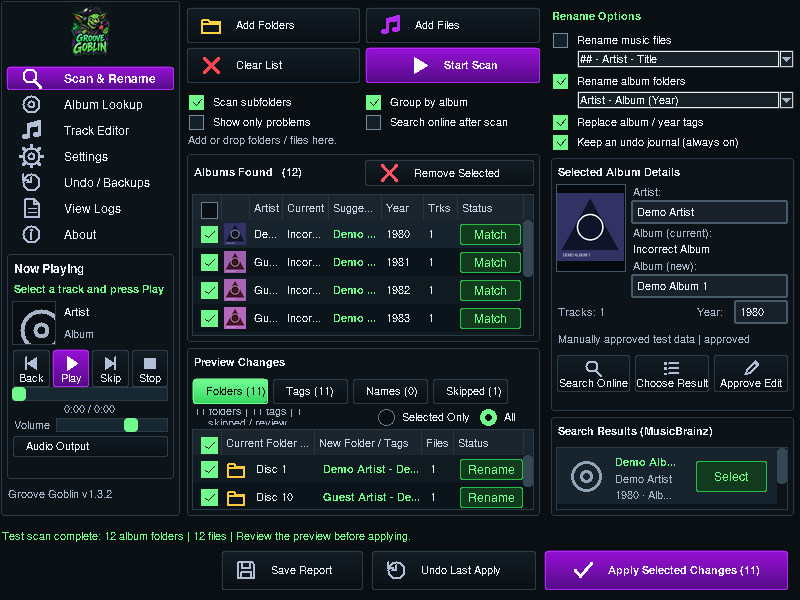
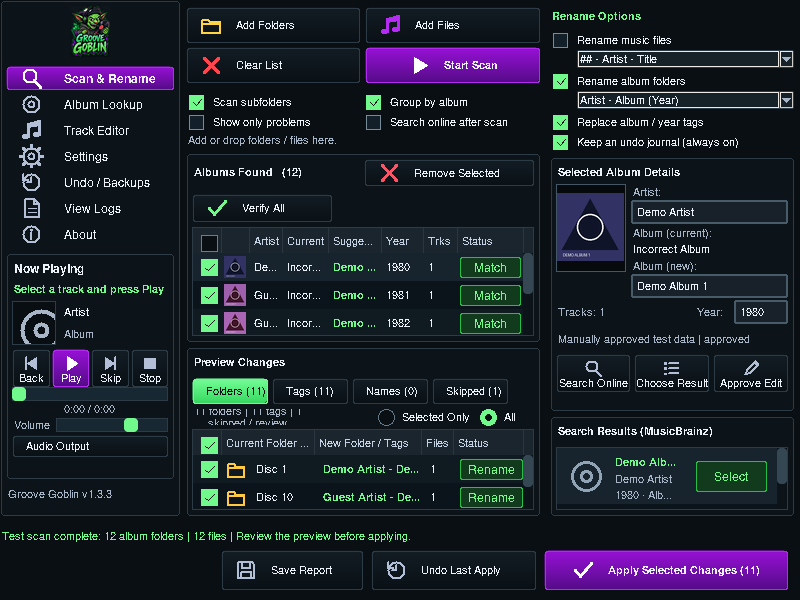
Add Verify All choices and a dedicated Album Lookup page

Changed region(s): [[0.25, 0.33, 0.5, 0.57], [0.5312, 0.33, 0.6875, 0.57], [0.3125, 0.33, 0.5, 0.36]]

diff --git a/groove_album_lookup.py b/groove_album_lookup.py
@@ -1,0 +1,119 @@
+"""Dedicated MusicBrainz browsing and matching page; searches never write music."""
+import tkinter as tk
+from tkinter import ttk, messagebox
+from types import SimpleNamespace
+from groove_widgets import BG, PANEL, FG, MUTED, GREEN, Button, Panel, Table
+
+
+class AlbumLookup(tk.Frame):
+    def __init__(self,app):
+        super().__init__(app.content,bg=BG)
+        self.app=app;self.uid=None;self.hits=[];self.ids=[None];self.searching=False
+        self.artist=tk.StringVar();self.title=tk.StringVar();self.info=tk.StringVar(value='Search by artist and album. Select a loaded album to use a result.')
+        self.columnconfigure(0,weight=1);self.rowconfigure(2,weight=1)
+        tk.Label(self,text='Album Lookup',bg=BG,fg=GREEN,font=(app.ui_font,14,'bold'),anchor='w').grid(row=0,column=0,sticky='ew',pady=(0,6))
+        self.search_panel=Panel(self,height=182,padding=8);self.search_panel.grid(row=1,column=0,sticky='ew',pady=(0,8))
+        form=self.search_panel.body;form.columnconfigure(1,weight=1)
+        tk.Label(form,text='Loaded album',bg=PANEL,fg=MUTED,font=(app.ui_font,9)).grid(row=0,column=0,sticky='w',padx=(0,8),pady=3)
+        self.target=ttk.Combobox(form,state='readonly',width=25);self.target.grid(row=0,column=1,sticky='ew',pady=3)
+        self.target.bind('<<ComboboxSelected>>',lambda event:self.select_target(self.ids[self.target.current()]))
+        self.entries=[]
+        for row,(label,var) in enumerate([('Artist',self.artist),('Album',self.title)],1):
+            tk.Label(form,text=label,bg=PANEL,fg=MUTED,font=(app.ui_font,9)).grid(row=row,column=0,sticky='w',pady=3)
+            entry=ttk.Entry(form,textvariable=var,width=25);entry.grid(row=row,column=1,sticky='ew',pady=3)
+            entry.bind('<Return>',lambda event:self.search());self.entries.append(entry)
+        search_actions=tk.Frame(form,bg=PANEL);search_actions.grid(row=3,column=1,sticky='w',pady=(4,3))
+        self.search_button=Button(search_actions,'Search MusicBrainz',self.search,width=185,height=32,symbol='search',primary=True,font=(app.ui_font,9))
+        self.search_button.pack(side='left')
+        self.cancel_button=Button(search_actions,'Cancel',app.cancel_search,width=85,height=32,font=(app.ui_font,9))
+        self.cancel_button.pack(side='left',padx=(6,0))
+        self.message=tk.Label(form,textvariable=self.info,bg=PANEL,fg=MUTED,font=(app.ui_font,8),anchor='w',justify='left',wraplength=450)
+        self.message.grid(row=4,column=0,columnspan=2,sticky='ew')
+        self.results_panel=Panel(self,padding=8);self.results_panel.grid(row=2,column=0,sticky='nsew')
+        tk.Label(self.results_panel.body,text='MusicBrainz Results',bg=PANEL,fg=FG,font=(app.ui_font,10,'bold')).pack(anchor='w',pady=(0,6))
+        self.results=Table(self.results_panel.body,mode='results',font=(app.ui_font,9),on_choose=self.choose)
+        self.results.cover_provider=lambda row,size:app._art.request_result(self.hits[int(row)].get('id'),size) if int(row)<len(self.hits) else None
+        self.results.pack(fill='both',expand=True)
+        footer=tk.Frame(self,bg=BG);footer.grid(row=3,column=0,sticky='ew',pady=(6,0))
+        self.choose_button=Button(footer,'Use Selected Result',self.choose,width=190,height=34,symbol='check',primary=True,font=(app.ui_font,9))
+        self.choose_button.pack(side='left')
+        self.scan_button=Button(footer,'Go to Scan & Rename',lambda:app.tabs.select(app.tab_albums),width=190,height=34,font=(app.ui_font,9))
+        self.scan_button.pack(side='left',padx=(6,0))
+        self.bind('<Configure>',self.resize)
+        self.refresh_albums();self.set_busy(False)
+
+    def resize(self,event=None):
+        width=self.winfo_width();compact=width<1000 or self.winfo_height()<650
+        self.search_panel.configure(height=182 if compact else 194)
+        self.message.configure(wraplength=max(240,width-30))
+        for panel in (self.search_panel,self.results_panel):
+            panel.padding=6 if compact else 10
+            panel.resize(SimpleNamespace(width=panel.winfo_width(),height=panel.winfo_height()))
+        self.results.rowheight=56 if compact else 66;self.results.schedule()
+
+    def refresh_albums(self):
+        self.ids=[None,*[album.uid for album in self.app.matched]]
+        labels=['Browse only (no target album)',*[f'{i}. {album.artist or "Unknown artist"} - {album.album or album.old_album or "Unknown album"}' for i,album in enumerate(self.app.matched,1)]]
+        self.target.configure(values=labels)
+        if self.uid not in self.ids:self.select_target(None)
+        self.target.current(self.ids.index(self.uid))
+
+    def select_target(self,uid):
+        changed=uid!=self.uid;self.uid=uid
+        self.app.selected_id=uid
+        if uid in self.app.album_map:
+            album=self.app.album_map[uid]
+            if uid in self.app.albums_tree.data:self.app.albums_tree.selection_set(uid)
+            if changed:self.artist.set(album.artist);self.title.set(album.album or album.old_album)
+            self.show_results(album.lookup_results)
+            self.info.set(f'{album.file_count} loaded tracks. Search, then choose the correct original release.')
+        elif changed:
+            self.show_results([]);self.info.set('Browse results without changing a loaded album. Choose a target to use a match.')
+        if uid in self.ids:self.target.current(self.ids.index(uid))
+        self.set_busy(self.app.worker_busy)
+
+    def show_results(self,hits):
+        self.hits=list(hits);self.results.delete(*self.results.get_children())
+        for i,hit in enumerate(self.hits):
+            self.results.insert('','end',iid=str(i),values=(hit.get('title',''),hit.get('artist',''),hit.get('year',''),hit.get('type',''),hit.get('score','')))
+        self.set_busy(self.app.worker_busy)
+
+    def search(self):
+        if self.app.worker_busy:return
+        artist=self.artist.get().strip();title=self.title.get().strip();uid=self.uid
+        if not artist:messagebox.showwarning('Artist required','Enter an artist to search MusicBrainz.',parent=self.app);return
+        self.info.set('Searching MusicBrainz…');self.show_results([]);self.searching=True
+        def work():
+            hits=self.app.mb.search_albums(artist,title,limit=35)
+            if not hits and title and not self.app.cancel.is_set():hits=self.app.mb.search_albums(artist,'',limit=35)
+            if self.app.cancel.is_set():
+                self.app.queue.put(('lookup_canceled',uid));return
+            self.app.queue.put(('lookup_hits',uid,hits))
+        self.app.run_background(work)
+
+    def receive(self,uid,hits):
+        if uid!=self.uid:return
+        self.show_results(hits)
+        self.info.set(f'{len(hits)} results. Choose a release to prepare the preview.' if hits else 'No matches found. Try a different artist or album title.')
+
+    def choose(self):
+        if self.app.worker_busy:return
+        selected=self.results.selection();album=self.app.album_map.get(self.uid)
+        if not album:
+            self.info.set('Choose a loaded album above before using a result.');return
+        if not selected:
+            self.info.set('Select a MusicBrainz result first.');return
+        # Reuse the existing validation/approval path; Apply remains explicit.
+        hit=self.hits[int(selected[0])]
+        if not hit.get('year'):
+            self.info.set('This result has no original release year. Choose another result or edit the year in Scan & Rename.')
+        album.lookup_results=list(self.hits);self.app.selected_id=album.uid
+        self.app.populate_results(album);self.app.results_tree.selection_set(selected[0])
+        self.app.var_enabled.set(album.enabled);self.app.use_result()
+        if hit.get('year') and album.approved:self.info.set('Album approved. Review the preview in Scan & Rename before applying.')
+
+    def set_busy(self,busy):
+        self.search_button.state(['disabled'] if busy else ['!disabled'])
+        self.cancel_button.state(['!disabled'] if busy and self.searching else ['disabled'])
+        if not busy:self.searching=False
+        self.choose_button.state(['!disabled'] if not busy and self.uid in self.app.album_map and self.hits else ['disabled'])

diff --git a/tests/test_gui.py b/tests/test_gui.py
@@ -135,6 +135,96 @@ class LayoutTests(unittest.TestCase):
             listing.event_generate('<TouchpadScroll>',delta=(-height*5)&0xffff);a.update()
             self.assertAlmostEqual(listing.yview()[0],1/80,places=5)
 
+    def lookup_fixture(self,count=3):
+        from test_groove import GrooveTests
+        from groove_core import scan_folders
+        f=GrooveTests();f.setUp();self.addCleanup(f.tearDown)
+        paths=[f.add_mp3(f'Lookup/Album {i}','song.mp3',f'Song {i}',artist='Test Artist',album=f'Album {i}',year='2000') for i in range(count)]
+        a=self.app;a.matched,_=scan_folders([f.root/'Lookup']);a.album_map={album.uid:album for album in a.matched}
+        a.populate_albums();a.refresh_preview();a.update()
+        return paths
+
+    def wait_lookup(self):
+        deadline=time.monotonic()+5
+        while self.app.worker_busy and time.monotonic()<deadline:self.app.update();time.sleep(.01)
+        self.app.update();self.assertFalse(self.app.worker_busy)
+
+    def test_verify_popup_search_all_including_approved_and_bulk_approve_without_writes(self):
+        from groove_widgets import Button
+        paths=self.lookup_fixture(4);a=self.app
+        before={p:hashlib.sha256(p.read_bytes()).digest() for p in paths}
+        a.matched[0].approved=True
+        for album in a.matched[1:]:album.approved=False
+        a.matched[2].year='';a.matched[3].enabled=False
+        a.btn_verify.invoke();a.update();dialog=a.verify_dialog
+        buttons={child.text:child for child in dialog.winfo_children() if isinstance(child,Button)}
+        self.assertEqual(set(buttons),{'Search MusicBrainz','Approve Current Suggestions'})
+        with patch.object(a.mb,'suggest',return_value=(None,[])) as suggest:
+            buttons['Search MusicBrainz'].invoke();self.wait_lookup()
+            self.assertEqual(suggest.call_count,4)
+        self.assertFalse(a.matched[1].approved)
+        a.btn_verify.invoke();a.update()
+        buttons={child.text:child for child in a.verify_dialog.winfo_children() if isinstance(child,Button)}
+        with patch.object(a,'apply') as apply:
+            buttons['Approve Current Suggestions'].invoke();a.update();apply.assert_not_called()
+        self.assertTrue(a.matched[1].approved);self.assertFalse(a.matched[2].approved);self.assertFalse(a.matched[3].approved)
+        self.assertIn('Bulk approved',a.matched[1].match_source)
+        self.assertTrue(a.actions)
+        self.assertEqual({p:hashlib.sha256(p.read_bytes()).digest() for p in paths},before)
+        a.worker_busy=True
+        with patch.object(a.mb,'suggest') as suggest:
+            a.approve_all();a.verify_all();suggest.assert_not_called()
+        a.worker_busy=False
+
+    def test_album_lookup_browse_empty_error_and_loaded_target_choose_are_read_only(self):
+        a=self.app;a.nav_buttons['lookup'].invoke();a.update();page=a.lookup_page
+        self.assertEqual(a._active_page,'lookup');self.assertTrue(page.winfo_ismapped());self.assertFalse(a.dashboard.winfo_ismapped())
+        page.artist.set('Test Artist');page.title.set('Album')
+        hit={'title':'Chosen Album','artist':'Test Artist','year':'1998','type':'Album','score':99,'id':'mock'}
+        with patch.object(a.mb,'search_albums',return_value=[hit]) as search:
+            page.search_button.invoke();self.wait_lookup();search.assert_called_once_with('Test Artist','Album',limit=35)
+        self.assertEqual(page.hits,[hit]);self.assertTrue(page.choose_button.disabled)
+        with patch.object(a.mb,'search_albums',return_value=[]):page.search();self.wait_lookup()
+        self.assertIn('No matches',page.info.get())
+        with patch.object(a.mb,'search_albums',side_effect=OSError('Test connection unavailable')),patch.object(self.module.messagebox,'showerror'):
+            page.search();self.wait_lookup()
+        self.assertIn('Search failed',page.info.get());self.assertFalse(page.search_button.disabled)
+        import threading
+        entered=threading.Event();release=threading.Event()
+        def delayed_search(*args,**kwargs):
+            entered.set();release.wait(2);return [hit]
+        with patch.object(a.mb,'search_albums',side_effect=delayed_search):
+            page.search();self.assertTrue(entered.wait(1))
+            self.assertFalse(page.cancel_button.disabled)
+            page.cancel_button.invoke();release.set();self.wait_lookup()
+        self.assertIn('canceled',page.info.get());self.assertFalse(page.hits)
+        paths=self.lookup_fixture(1);before={p:p.read_bytes() for p in paths};album=a.matched[0];album.approved=False
+        page.refresh_albums();page.target.current(1);page.target.event_generate('<<ComboboxSelected>>');a.update()
+        self.assertEqual(page.uid,album.uid)
+        with patch.object(a.mb,'search_albums',return_value=[hit]):page.search_button.invoke();self.wait_lookup()
+        page.results.selection_set('0');page.choose_button.invoke();a.update()
+        self.assertTrue(album.approved);self.assertEqual(album.album,'Chosen Album');self.assertEqual(album.year,'1998')
+        self.assertTrue(a.actions);self.assertEqual({p:p.read_bytes() for p in paths},before)
+        a.tabs.select(a.tab_albums);a.update();self.assertTrue(a.dashboard.winfo_ismapped())
+        self.assertFalse(page.winfo_ismapped())
+
+    def test_lookup_resize_stale_results_and_verify_failures_are_actionable(self):
+        self.lookup_fixture(2);a=self.app;page=a.lookup_page
+        a.selected_id=a.matched[0].uid;a.go_editor();a.update();old=page.uid
+        page.select_target(a.matched[1].uid);page.receive(old,[{'title':'Wrong album'}]);self.assertFalse(page.hits)
+        for width,height in [(800,600),(1024,768),(1920,1080),(850,620)]:
+            a.geometry(f'{width}x{height}');a.update();a._responsive.apply();page.resize();a.update()
+            for widget in (page.target,*page.entries,page.search_button,page.cancel_button,page.results,page.choose_button,page.scan_button,a.track_editor.player_panel):
+                self.assertTrue(widget.winfo_ismapped())
+                x=widget.winfo_rootx()-a.winfo_rootx();y=widget.winfo_rooty()-a.winfo_rooty()
+                self.assertGreaterEqual(x,0);self.assertGreaterEqual(y,0)
+                self.assertLessEqual(x+widget.winfo_width(),width);self.assertLessEqual(y+widget.winfo_height(),height)
+            for name,button in a.nav_buttons.items():self.assertEqual(button.text,a._responsive.nav_text[name])
+        with patch.object(a.mb,'suggest',side_effect=OSError('Test offline')):
+            a.lookup_all();self.wait_lookup()
+        self.assertIn('2 failed',a.status.get());self.assertIn('View Logs',a.status.get())
+        self.assertFalse(a.worker_busy);self.assertFalse(a.btn_verify.disabled)
+
     def setUp(self):
         loader = importlib.machinery.SourceFileLoader('groove_gui', str(ROOT / 'GrooveGoblin.pyw'))
         spec = importlib.util.spec_from_loader(loader.name, loader)
@@ -256,7 +346,7 @@ class LayoutTests(unittest.TestCase):
             a.update()
             a._responsive.apply()
             a.update()
-            for widget in (a.btn_apply,a.remove_albums_button,a.album_entry,a.artist_entry,a.cover_box,a.preview_tree,a.results_tree,a.albums_tree,a._responsive.version,a.track_editor.player_cover,a.track_editor.now,a.track_editor.time,a.track_editor.progress,a.track_editor.volume,a.track_editor.audio_output_button,*a.track_editor.play_buttons,*a._responsive.toolbar,*a.nav_buttons.values(),*a._responsive.w['actions'].winfo_children()):
+            for widget in (a.btn_apply,a.btn_verify,a.remove_albums_button,a.album_entry,a.artist_entry,a.cover_box,a.preview_tree,a.results_tree,a.albums_tree,a._responsive.version,a.track_editor.player_cover,a.track_editor.now,a.track_editor.time,a.track_editor.progress,a.track_editor.volume,a.track_editor.audio_output_button,*a.track_editor.play_buttons,*a._responsive.toolbar,*a.nav_buttons.values(),*a._responsive.w['actions'].winfo_children()):
                 self.assertTrue(widget.winfo_ismapped())
                 if widget is a.remove_albums_button:
                     for item in widget.find_all():

diff --git a/groove_layout.py b/groove_layout.py
@@ -17,16 +17,18 @@ class PageNavigation:
         a=self.app
         tracks=hasattr(a,'track_editor') and page is a.track_editor
         history=page is a.tab_history
-        target=a.track_editor if tracks else (a.tab_history if history else a.dashboard)
-        for frame in (a.dashboard,a.tab_history,getattr(a,'track_editor',a.dashboard)):
+        lookup=hasattr(a,'lookup_page') and page is a.lookup_page
+        target=a.lookup_page if lookup else (a.track_editor if tracks else (a.tab_history if history else a.dashboard))
+        for frame in (a.dashboard,a.tab_history,getattr(a,'track_editor',a.dashboard),getattr(a,'lookup_page',a.dashboard)):
             frame.grid_remove()
         target.grid(row=0,column=0,sticky='nsew')
-        a._active_page='tracks' if tracks else ('logs' if history else 'scan')
+        a._active_page='lookup' if lookup else ('tracks' if tracks else ('logs' if history else 'scan'))
         for name,button in a.nav_buttons.items():
             button.active=name==a._active_page;button.draw()
         from types import SimpleNamespace
         a._footer_resize(SimpleNamespace(width=a._footer.winfo_width()))
         if tracks and not a.track_editor.records and not a.track_editor.list_cleared and a.matched and not a.worker_busy:a.track_editor.import_scan()
+        if lookup:a.lookup_page.refresh_albums()
         if page is a.tab_editor:a.album_entry.focus_set()
 
 
@@ -160,7 +162,7 @@ def install_layout(cls):
         self.status_label=tk.Label(footer,textvariable=self.status,bg=BG,fg=GREEN,font=(self.ui_font,9),anchor='w',justify='left',wraplength=420)
         self.status_label.pack(side='left',fill='x',expand=True,padx=(0,8))
         def footer_resize(event):
-            if self._active_page=='tracks':
+            if self._active_page in ('tracks','lookup'):
                 controls.pack_forget();footer_spacer.pack_forget()
                 self.status_label.pack_configure(side='top',fill='x',expand=False)
                 self.status_label.configure(height=1,wraplength=max(300,event.width-20))
@@ -260,6 +262,8 @@ def install_layout(cls):
         self.remove_albums_button.pack(side='right')
         self.albums_heading=tk.Label(album_header,text='Albums Found   (0)',bg=PANEL,fg=FG,font=(self.ui_font,10,'bold'))
         self.albums_heading.pack(side='left')
+        self.btn_verify=Button(albums.body,'Verify All',self.verify_all,width=140,height=28,symbol='check',accent=GREEN,font=(self.ui_font,9))
+        self.btn_verify.pack(anchor='w',pady=(0,5))
         self.albums_tree=Table(albums.body,mode='albums',font=(self.ui_font,10),on_toggle=self.toggle_album_id)
         self.albums_tree.on_toggle_all=self.toggle_all_albums
         self.albums_tree.cover_provider=lambda uid,size:self._art.request(uid,size)
@@ -352,6 +356,8 @@ def install_layout(cls):
         self.refresh_preview()
         from groove_track_editor import TrackEditor
         self.track_editor=TrackEditor(self)
+        from groove_album_lookup import AlbumLookup
+        self.lookup_page=AlbumLookup(self)
         from groove_responsive import ResponsiveLayout
         self._responsive=ResponsiveLayout(self,dict(sidebar=sidebar,side=side,brand=brand,nav=nav,player=self.sidebar_player_panel,
             center=center,toolbar=toolbar,checkrow=checkrow,albums=albums,preview=preview,filters=filters,views=views,
@@ -416,6 +422,7 @@ def install_layout(cls):
         selection=[uid for uid in selection if uid in tree.data]
         if selection:tree.selection_set(selection)
         elif self.selected_id in tree.data:tree.selection_set(self.selected_id)
+        if hasattr(self,"lookup_page"):self.lookup_page.refresh_albums()
 
     def remove_selected_albums(self,event=None):
         if self.worker_busy:

diff --git a/groove_responsive.py b/groove_responsive.py
@@ -166,5 +166,5 @@ class ResponsiveLayout:
         for button in w['controls'].winfo_children():
             button.configure(height=40 if compact else (44 if medium else 50))
         w['footer_spacer'].configure(width=sidebar_width+12)
-        a.status_label.configure(height=1 if a._active_page=='tracks' else (2 if compact else 1))
+        a.status_label.configure(height=1 if a._active_page in ('tracks','lookup') else (2 if compact else 1))
         a.preview_errors.configure(height=1)

diff --git a/groove_version.py b/groove_version.py
@@ -1,2 +1,2 @@
 """One version string for the window, About, journals and network user agent."""
-__version__ = '1.3.2'
+__version__ = '1.3.3'

diff --git a/README.md b/README.md
@@ -1,4 +1,4 @@
-# Groove Goblin 1.3.2
+# Groove Goblin 1.3.3
 
 Windows desktop music tagger and organizer with a responsive dark Tkinter
 interface, MusicBrainz album lookup, naming presets, manual track editing,
@@ -42,6 +42,21 @@ If detection fails, drag your installed `python.exe` onto the launcher.
 MusicBrainz receives artist/album search text, never audio files. Public Cover
 Art Archive previews are held in memory; viewing one does not embed it in music.
 Missing internet or artwork leaves a placeholder and does not block local work.
+
+## Verify All and Album Lookup
+
+Verify All in Scan & Rename opens a choice popup. Search MusicBrainz checks every
+loaded album, including already approved albums, and stores suggestions for review.
+Approve Current Suggestions approves valid suggestions for included albums; entries
+missing an artist, album name or valid year stay unapproved. Both actions are
+read-only. Apply Selected Changes still requires the normal preview/confirmation.
+
+Album Lookup now has its own page. Enter an artist and album to browse MusicBrainz,
+or select a scanned album in the Loaded album dropdown to search for its match.
+Use Selected Result approves that album and prepares the Scan & Rename preview;
+it does not write music. Search supports Enter and Cancel, shows empty results
+and connection errors, and retains the shared sidebar player across navigation.
+See [Album Lookup](docs/album-lookup-linux.png) and [Verify All](docs/verify-all-linux.png).
 
 ## Track Editor
 
@@ -142,7 +157,7 @@ Shift+wheel scrolls the Track Editor horizontally; scrollbar dragging still work
 
 Tab navigates controls, Ctrl / Shift selects multiple editor rows, F11 enters
 fullscreen and Esc exits. Ctrl +/- adjusts organizer table text. About and the
-sidebar display version 1.3.2.
+sidebar display version 1.3.3.
 
 Screenshots were captured on a Linux virtual display with disposable generated
 audio and covers; online results are mocked. They show the running application,
@@ -161,12 +176,15 @@ Tests cover FLAC/MP3 scan → preview → apply → Undo; filename/folder preset
 case-insensitive collisions and stale files; individual and batch manual edits;
 front-art replacement/removal with other art and tags preserved; byte-for-byte
 manual Undo; partial failures and external-edit protection; live GUI workflows,
-resize bounds, staging without writes, drop auto-scanning, and editor paths after
+resize bounds, staging without writes, Verify All choices, browsing/choosing
+lookup results and failed searches, drop auto-scanning, and editor paths after
 organizer renames/Undo. Playback checks stream real generated MP3 and FLAC files
 through SDL's test audio device and exercise transport, seeking and volume,
 sidebar artwork/metadata and playback continuity across sections.
 
-68 tests passed on Linux/Python 3.12; two Windows-only tests were skipped.
+71 tests passed on Linux/Python 3.12; two Windows-only tests were skipped.
+A live MusicBrainz smoke request was blocked by the cloud proxy (HTTP 403);
+online workflow checks use mocked responses and test connection-error handling.
 Linux validation cannot establish actual Windows audio-device,
 Python 3.15 playback or 125%/150% DPI behavior. The PowerShell launcher and native
 Windows message-loop subprocess tests are skipped on Linux. The user confirmed

diff --git a/CHANGELOG.md b/CHANGELOG.md
@@ -1,5 +1,13 @@
 # Changelog
 
+## 1.3.3
+
+- Added Verify All to Scan & Rename, with Search MusicBrainz and Approve Current Suggestions choices.
+- Included already approved albums in explicit online searches; bulk approval skips excluded or incomplete entries and never applies changes.
+- Replaced the no-op Album Lookup navigation with a dedicated search/browse page, loaded-album selection and result approval for preview.
+- Added clear empty-result/error feedback, cancellation and stale-target protection, preserving the shared sidebar player.
+- Added read-only search/bulk-approval and compact-layout regression coverage.
+
 ## 1.3.2
 
 - Added Clear Selected and Clear List above the Track Editor table, sized for compact windows.

diff --git a/docs/formats.md b/docs/formats.md
@@ -1,4 +1,4 @@
-# Audio formats in Groove Goblin 1.3.2
+# Audio formats in Groove Goblin 1.3.3
 
 Add Files, folder scans, Explorer drops, Track Editor and cover previews share
 one format list. A filename extension is checked against the actual container;
